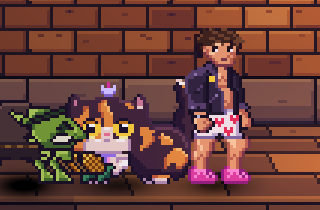
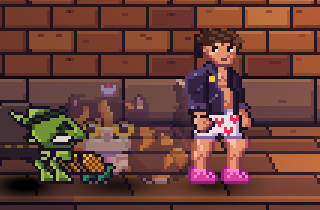
fix(f01): shared i-frame flicker for both heroes (FA-Q38)
Both heroes draw alpha 1.0 and 0.5 alternating every 4 ticks of the simulation's post-hit invulnerability over their real frames, with no white tint and no cue while downed. Rendering only; the sim is unchanged.

diff --git a/src/bin/floor01_scene.rs b/src/bin/floor01_scene.rs
@@ -38,7 +38,8 @@ use bevy::{
 };
 use dungeon_floorbreak::{
     actor_sprite::{
-        ActorAssets, ActorSpec, FrameSource, actor_center, load_carl, load_donut, shadow_center_x,
+        ActorAssets, ActorSpec, FrameSource, actor_center, invulnerability_alpha, load_carl,
+        load_donut, shadow_center_x,
     },
     anim::{Animator, Tag},
     audience::{AnticipationCue, AnticipationTrigger, ChainFeat},
@@ -5724,6 +5725,16 @@ fn presentation_tick(
     }
 }
 
+/// FA-Q38 (i-frame cue): the colour a hero's sprite is drawn with, for both heroes
+/// and every sprite that shows them (locomotion, melee, cast, throw, acting): white,
+/// dimmed to alpha 0.5 on alternate 4 tick phases of the simulation's post-hit
+/// invulnerability, and never while a hero is downed. No tint. Presentation only.
+fn hero_cue(sim: &SceneSim, combat: Option<&CombatState>, hero: HeroId) -> Color {
+    let downed = combat.is_some_and(|c| c.hero_defeated);
+    let ticks = sim.world.body(hero).invulnerable_ticks;
+    Color::srgba(1.0, 1.0, 1.0, invulnerability_alpha(ticks, downed))
+}
+
 #[allow(clippy::type_complexity, clippy::too_many_arguments)]
 fn sync_visuals(
     sim: Res<Sim>,
@@ -5829,6 +5840,16 @@ fn sync_visuals(
         if let Some(atlas) = sprite.texture_atlas.as_mut() {
             atlas.index = pose.frame;
         }
+        sprite.color = if reference.0.is_some() {
+            Color::WHITE
+        } else {
+            let id = if actor.is_hero {
+                HeroId::Carl
+            } else {
+                HeroId::Donut
+            };
+            hero_cue(state, combat.0.as_ref(), id)
+        };
     }
 
     let hero = &state.world.hero;
@@ -5965,6 +5986,7 @@ fn sync_combat_visuals(
                 transform.translation.x = cx;
                 transform.translation.y = cy;
                 sprite.flip_x = flip;
+                sprite.color = hero_cue(&sim.0, Some(state), HeroId::Carl);
                 if let Some(atlas) = sprite.texture_atlas.as_mut() {
                     atlas.index = pose.frame;
                 }
@@ -6276,6 +6298,7 @@ fn sync_donut_visuals(
         transform.translation.x = cx;
         transform.translation.y = cy;
         sprite.flip_x = flip;
+        sprite.color = hero_cue(sim, Some(state), HeroId::Donut);
         if let Some(atlas) = sprite.texture_atlas.as_mut() {
             atlas.index = frame;
         }
@@ -6291,6 +6314,7 @@ fn sync_donut_visuals(
         transform.translation.x = cx;
         transform.translation.y = cy;
         sprite.flip_x = flip;
+        sprite.color = hero_cue(sim, Some(state), HeroId::Donut);
         if let Some(atlas) = sprite.texture_atlas.as_mut() {
             atlas.index = frame;
         }
@@ -6807,6 +6831,7 @@ fn sync_blast_ring(
 #[allow(clippy::type_complexity)]
 fn sync_carl_throw_visual(
     sim: Res<Sim>,
+    combat: Res<Combat>,
     anim: Res<Anim>,
     mut throw: Query<
         (&mut Transform, &mut Sprite, &mut Visibility),
@@ -6830,6 +6855,7 @@ fn sync_carl_throw_visual(
                 transform.translation.x = cx;
                 transform.translation.y = cy;
                 sprite.flip_x = flip;
+                sprite.color = hero_cue(&sim.0, combat.0.as_ref(), HeroId::Carl);
                 if let Some(atlas) = sprite.texture_atlas.as_mut() {
                     atlas.index = pose.frame;
                 }
@@ -7074,6 +7100,7 @@ fn sync_cf02_acting_visuals(
                 transform.translation.x = cx;
                 transform.translation.y = cy;
                 sprite.flip_x = flip;
+                sprite.color = hero_cue(&sim.0, Some(state), HeroId::Carl);
                 if let Some(atlas) = sprite.texture_atlas.as_mut() {
                     atlas.index = pose.frame;
                 }
@@ -7094,6 +7121,7 @@ fn sync_cf02_acting_visuals(
                 transform.translation.x = cx;
                 transform.translation.y = cy;
                 sprite.flip_x = flip;
+                sprite.color = hero_cue(&sim.0, Some(state), HeroId::Donut);
                 if let Some(atlas) = sprite.texture_atlas.as_mut() {
                     atlas.index = pose.frame;
                 }

diff --git a/src/actor_sprite.rs b/src/actor_sprite.rs
@@ -188,6 +188,28 @@ pub fn shadow_center_x(spec: ActorSpec, foot_x: f32, flip_x: bool) -> f32 {
     center_x.round()
 }
 
+/// FA-Q38 (i-frame cue): the ticks one phase of the flicker lasts.
+pub const INVULNERABILITY_FLICKER_TICKS: u8 = 4;
+/// FA-Q38: the alpha of the dim phase of the flicker.
+pub const INVULNERABILITY_DIM_ALPHA: f32 = 0.5;
+
+/// FA-Q38 (i-frame cue): the alpha a hero's sprite is drawn with, from the
+/// ticks of invulnerability the simulation reports. Both heroes share it: it
+/// alternates 0.5 and 1.0 every 4 ticks while invulnerable (dim while
+/// `invulnerable_ticks / 4` is even), is always 1.0 outside the invulnerability,
+/// and is off while the hero is `downed` (the defeat freeze and the downed
+/// hold). Presentation only; it is never read back by the simulation.
+pub fn invulnerability_alpha(invulnerable_ticks: u8, downed: bool) -> f32 {
+    if downed
+        || invulnerable_ticks == 0
+        || !(invulnerable_ticks / INVULNERABILITY_FLICKER_TICKS).is_multiple_of(2)
+    {
+        1.0
+    } else {
+        INVULNERABILITY_DIM_ALPHA
+    }
+}
+
 #[cfg(test)]
 mod tests {
     use super::*;
@@ -330,5 +352,30 @@ mod tests {
         let [carl, _] = specs();
         let old_offset = CARL_SHADOW_FOOTPRINT.0 as f32 / 2.0 - CARL_SHADOW_FOOTPRINT.1 as f32;
         assert_eq!(actor_center(carl, 300.0, 92.0, false).0, 300.0 + old_offset);
+    }
+
+    #[test]
+    fn the_flicker_alternates_every_four_ticks_while_invulnerable() {
+        // 55 ticks left (the hit) counting down to 1: dim while ticks / 4 is even.
+        let alphas: Vec<f32> = (1..=8).map(|t| invulnerability_alpha(t, false)).collect();
+        assert_eq!(alphas, [0.5, 0.5, 0.5, 1.0, 1.0, 1.0, 1.0, 0.5]);
+        // Both edges of a phase: 3 is dim, 4 is bright, 7 is bright, 8 is dim.
+        assert_eq!(invulnerability_alpha(3, false), 0.5);
+        assert_eq!(invulnerability_alpha(4, false), 1.0);
+        assert_eq!(invulnerability_alpha(7, false), 1.0);
+        assert_eq!(invulnerability_alpha(8, false), 0.5);
+        // Only the two alphas ever occur, over the whole 55 tick window.
+        for t in 1..=55 {
+            let a = invulnerability_alpha(t, false);
+            assert!(a == 0.5 || a == 1.0, "tick {t}");
+        }
+    }
+
+    #[test]
+    fn there_is_no_cue_outside_the_invulnerability_or_while_downed() {
+        assert_eq!(invulnerability_alpha(0, false), 1.0);
+        for t in 0..=255u8 {
+            assert_eq!(invulnerability_alpha(t, true), 1.0, "downed, {t} left");
+        }
     }
 }

diff --git a/docs/evidence/f01-donut-hurt/README.md b/docs/evidence/f01-donut-hurt/README.md
@@ -2,7 +2,7 @@
 
 Screenshot evidence that Donut's damage reactions are drawn from the committed ANIM-DONUT-02 melee atlas (`donut_h40_melee.png`, frames 8 to 12) instead of a white flash and a 50% blink. **No sprite was drawn or changed.** The presentation is `donut_art::hurt_frame` (pure), stepped each tick in `CombatAnimators` (`src/combat_anim.rs`, the same shape as Carl's `CarlInput` and `carl_pose`) and drawn by `sync_donut_visuals` in `src/bin/floor01_scene.rs`. Game feel is pending.
 
-`scripts/make_donut_hurt_evidence.sh` renders the real Bevy window under xvfb at 1080p (`--scale 3`) on the two committed party fixtures that hurt and defeat her, at six ticks, **twice**, and requires the two passes to be byte-identical. Each still is a pure crop of the scene pixels around her (no resampling); `strip_x6.png` lays the six crops out enlarged 2x with nearest-neighbour, which is 6x the 640x360 canvas.
+`scripts/make_donut_hurt_evidence.sh` renders the real Bevy window under xvfb at 1080p (`--scale 3`) on the two committed party fixtures that hurt and defeat her, at ten ticks (plus one Carl fixture for the i-frame cue), **twice**, and requires the two passes to be byte-identical. Each still is a pure crop of the scene pixels around her (no resampling); `strip_x6.png` lays the crops out enlarged 2x with nearest-neighbour, which is 6x the 640x360 canvas.
 
 | Still | Fixture, tick | Frame (melee atlas) | What it shows |
 | --- | --- | --- | --- |
@@ -15,11 +15,16 @@ Screenshot evidence that Donut's damage reactions are drawn from the committed A
 
 In `defeat_freeze_h0.png`, `knockdown_d0.png` and `knockdown_d1.png` Carl stands over her: that is the fixture's geometry (she is a stationary target at his column), and she is drawn behind him as every other Donut frame is.
 
-[`capture_lines.txt`](capture_lines.txt) has one `DONUT_HURT_STILL` line per still: the window's final `COMBAT_STATE` hash, the headless run's (equal on all six: the presentation changes no sim hash), whether the two passes were byte-identical, and the PNG's sha256. [`SHA256SUMS`](SHA256SUMS) is verified by `python3 scripts/check_docs.py`.
+[`capture_lines.txt`](capture_lines.txt) has one `DONUT_HURT_STILL` line per still: the window's final `COMBAT_STATE` hash, the headless run's (equal on all ten: the presentation changes no sim hash), whether the two passes were byte-identical, and the PNG's sha256. [`SHA256SUMS`](SHA256SUMS) is verified by `python3 scripts/check_docs.py`.
 
 ## What changed on screen
 
-Before: a white flash for the first 3 ticks of a flinch and a 50% alpha blink through the 55 tick invulnerability, on her locomotion frame. Now: the reaction frames above. **The flash and the blink are gone** for both the flinch and the invulnerability: Carl's presentation layers neither on his hurt and knockdown frames (his sprite is never tinted), and this change matches Carl. If the owner wants an invulnerability cue for either hero, it is one shared presentation change.
+Before: a white flash for the first 3 ticks of a flinch and a 50% alpha blink through the 55 tick invulnerability, on her locomotion frame, and nothing at all for Carl. Now: the reaction frames above, and **one i-frame cue for both heroes (FA-Q38, adopted default)**: `actor_sprite::invulnerability_alpha` returns alpha 1.0 or 0.5, alternating every 4 ticks (dim while `invulnerable_ticks / 4` is even) of the simulation's existing post-hit invulnerability, drawn over whatever real frame shows (locomotion, melee, cast, throw, acting). **No white tint, and no cue while a hero is downed** (the defeat freeze and the downed hold). The white flash is gone.
+
+| Still | Fixture, tick | What it shows |
+| --- | --- | --- |
+| `ifr_donut_dim.png`, `ifr_donut_bright.png` | `donut_hurt_iframes`, 96 and 100 | Donut after the flinch, in the dim then the bright phase |
+| `ifr_carl_dim.png`, `ifr_carl_bright.png` | `cp01_goblin_attacks`, 188 and 192 | Carl, the same cue and phases (he had none before) |
 
 ## What the art does not cover
 
@@ -29,7 +34,7 @@ Before: a white flash for the first 3 ticks of a flinch and a 50% alpha blink th
 
 ## Sim unchanged
 
-Presentation only: `CombatState::donut_defeated()` is a read-only accessor. Every unit test, golden and pin passes unchanged; `scripts/ci_floor01_combat.sh headless` replays every committed party and combat fixture against its committed text; no `docs/evidence/*/SHA256SUMS` file other than this folder's changed. New tests: `donut_art::tests` (frame table, manifest pin, anchor blend) and `combat_anim::tests` (the two fixtures' frame runs, the animated and plain hashes equal on every tick).
+Presentation only: `CombatState::donut_defeated()` is a read-only accessor. Every unit test, golden and pin passes unchanged; `scripts/ci_floor01_combat.sh headless` replays every committed party and combat fixture against its committed text; no `docs/evidence/*/SHA256SUMS` file other than this folder's changed. New tests: `actor_sprite::tests` (the FA-Q38 cue: on and off ticks at both edges of a phase, off outside the invulnerability and while downed), `donut_art::tests` (frame table, manifest pin, anchor blend) and `combat_anim::tests` (the two fixtures' frame runs, the animated and plain hashes equal on every tick).
 
 Regenerate: `cargo build --locked --bin floor01_scene && bash scripts/export_assets.sh && bash scripts/make_donut_hurt_evidence.sh`.
 

diff --git a/docs/03-tech/floor01-scene.md b/docs/03-tech/floor01-scene.md
@@ -781,7 +781,7 @@ Bevy-free and deterministic at the fixed tick. Every number is a `PartyTuning` k
 - **The bot (Q9).** `follower::follower_input`: it stays 32 to 48 px from the leader on the side it stands on, jumps a step or ledge its own jump reaches (about 88 px), waits at taller walls, jumps on a goblin tell within 40 px while the swing is still 6 or more ticks from active, never attacks, and is placed just outside the view behind the leader after 120 ticks off-screen. There is no authored gate, gap or ledge in the sample layout, so "waits at gaps it cannot cross" is only unit-tested on a synthetic wall.
 - **Camera (Q7).** Solo: the controlled hero with the usual lead and deadzone; a swap raises the speed cap from 4 to 8 px per tick until the pan has caught up. Two players: the midpoint with no look-ahead **and no deadzone** (`ScrollCamera::step_capped_deadzone`, S3: the +-40 px deadzone let the centre lag the midpoint and left the leader at the wall only about 56 px from the frame edge, the test now pins the 96 px margin within one pixel); the separation wall stops a hero whose move would take it past `view_w - 2 x 96 = 448` px from the other (a hero already beyond may only move closer; a second player who joins while the bot is already beyond the limit places Donut beside Carl on the first 2P tick, on the same free-spot rule as the bot regroup, S4). No zoom. The edge arrow from 384 px is a knob only and is **not drawn**.
 - **Hashes.** A live party mixes Donut's body, the camera boost, the bot's off-screen counters, the controlled hero, the two-player flag, her hit state (flinch, hit-stop, drift), the defeated hero and every goblin's target behind marker words, only when the party is live, so no legacy hash can change (B1: `the_party_hash_covers_targets_donut_hit_state_and_the_defeated_hero` proves a target, hit-state or defeated-hero change alters the party hash and not the legacy one). The party fixtures add the swap timers.
-- **Presentation.** Donut's drawn animation follows her own motion (not Carl's) when live. Her hurt, knockback and knockdown frames (ANIM-DONUT-02 melee frames 8 to 12) are drawn from the sim's reaction state, like Carl's (`donut_art::hurt_frame`, stepped in `CombatAnimators`; presentation only, [evidence](../evidence/f01-donut-hurt/README.md)). Neither hero is tinted or blinked while hurt or invulnerable. Her getup frames stay unwired (no sim state gets a hero up). The HUD flashes Donut's plate from real `HeroHurt` events.
+- **Presentation.** Donut's drawn animation follows her own motion (not Carl's) when live. Her hurt, knockback and knockdown frames (ANIM-DONUT-02 melee frames 8 to 12) are drawn from the sim's reaction state, like Carl's (`donut_art::hurt_frame`, stepped in `CombatAnimators`; presentation only, [evidence](../evidence/f01-donut-hurt/README.md)). Both heroes share the FA-Q38 i-frame cue (`actor_sprite::invulnerability_alpha`): alpha 1.0 and 0.5 alternating every 4 ticks of the sim's post-hit invulnerability, drawn over the real frame, no white tint, none while a hero is downed. Her getup frames stay unwired (no sim state gets a hero up). The HUD flashes Donut's plate from real `HeroHurt` events.
 
 **Party fixtures** (`party_scene`, run with `--party-fixture NAME` headless or with `--capture-tick N`; goldens in `party_scene::tests::GOLDENS`, replays in [docs/evidence/party-2p](../evidence/party-2p/README.md), diffed by `scripts/ci_floor01_combat.sh headless`, captured by the `hud` render recipe):
 

diff --git a/docs/02-art/donut-moveset-q10.md b/docs/02-art/donut-moveset-q10.md
@@ -233,7 +233,7 @@ The guide needs no update.
 - The Magic Missile **is** in scope (the mana spec spends the charge on its release tick): the cast, a 6 px per tick bolt with a 240 px range, a hit as an ordinary 1 damage hero hit. Its cast animation and bolt art follow the ANIM-DONUT-03 spec; their art review is still pending.
 - A swat glance does not flash the goblin (the event `glance` is logged and the `--debug-combat` box shows the swat). The one-tick glance flash is a follow-up.
 - The dry cue is presentation only and the empty-click sound is not added (no cue exists in the audio bank yet).
-- Hurt, knockback and knockdown frames for Donut (melee 8 to 12) are wired in the Floor 1 scene (presentation only, [evidence](../evidence/f01-donut-hurt/README.md)): `h0` then `h1` for a flinch, and for her defeat `h0` in the freeze, `kb` in the air, `d0` for 6 ticks, then `d1` held until the retry. They replace the old white flash and 50% blink, which Carl never had either. The getup frames (13 and 14) stay unwired: no simulation state gets a hero up (the defeat ends the attempt and the retry restarts it), the same as Carl's getup.
+- Hurt, knockback and knockdown frames for Donut (melee 8 to 12) are wired in the Floor 1 scene (presentation only, [evidence](../evidence/f01-donut-hurt/README.md)): `h0` then `h1` for a flinch, and for her defeat `h0` in the freeze, `kb` in the air, `d0` for 6 ticks, then `d1` held until the retry. They replace the old white flash and 50% blink; both heroes now share one i-frame flicker drawn over their real frames (FA-Q38, `actor_sprite::invulnerability_alpha`). The getup frames (13 and 14) stay unwired: no simulation state gets a hero up (the defeat ends the attempt and the retry restarts it), the same as Carl's getup.
 - Fixtures: `q10_pounce_finish` and `q10_pounce_whiff` of the table above shipped as `q10_pounce_hit` and `q10_pounce_miss`; `q10_dry_press` ships with the mana fixtures `q10_mana_regen` and `q10_unlock_persists`, and `q10_pounce_boss` is new. `q10_pounce_ledge` (the 20 tick lapse off a drop) and `q10_solo_swap_donut` (a swap mid-pounce) are covered by domain and adapter unit tests (`donut_moves`, `donut_fixtures::tests::the_follower_finishes_a_move_after_a_swap_and_starts_none`), not by a replay fixture.
 - Scamper and the cat jump stay open (the boss right rack stays data-gated off).
 
